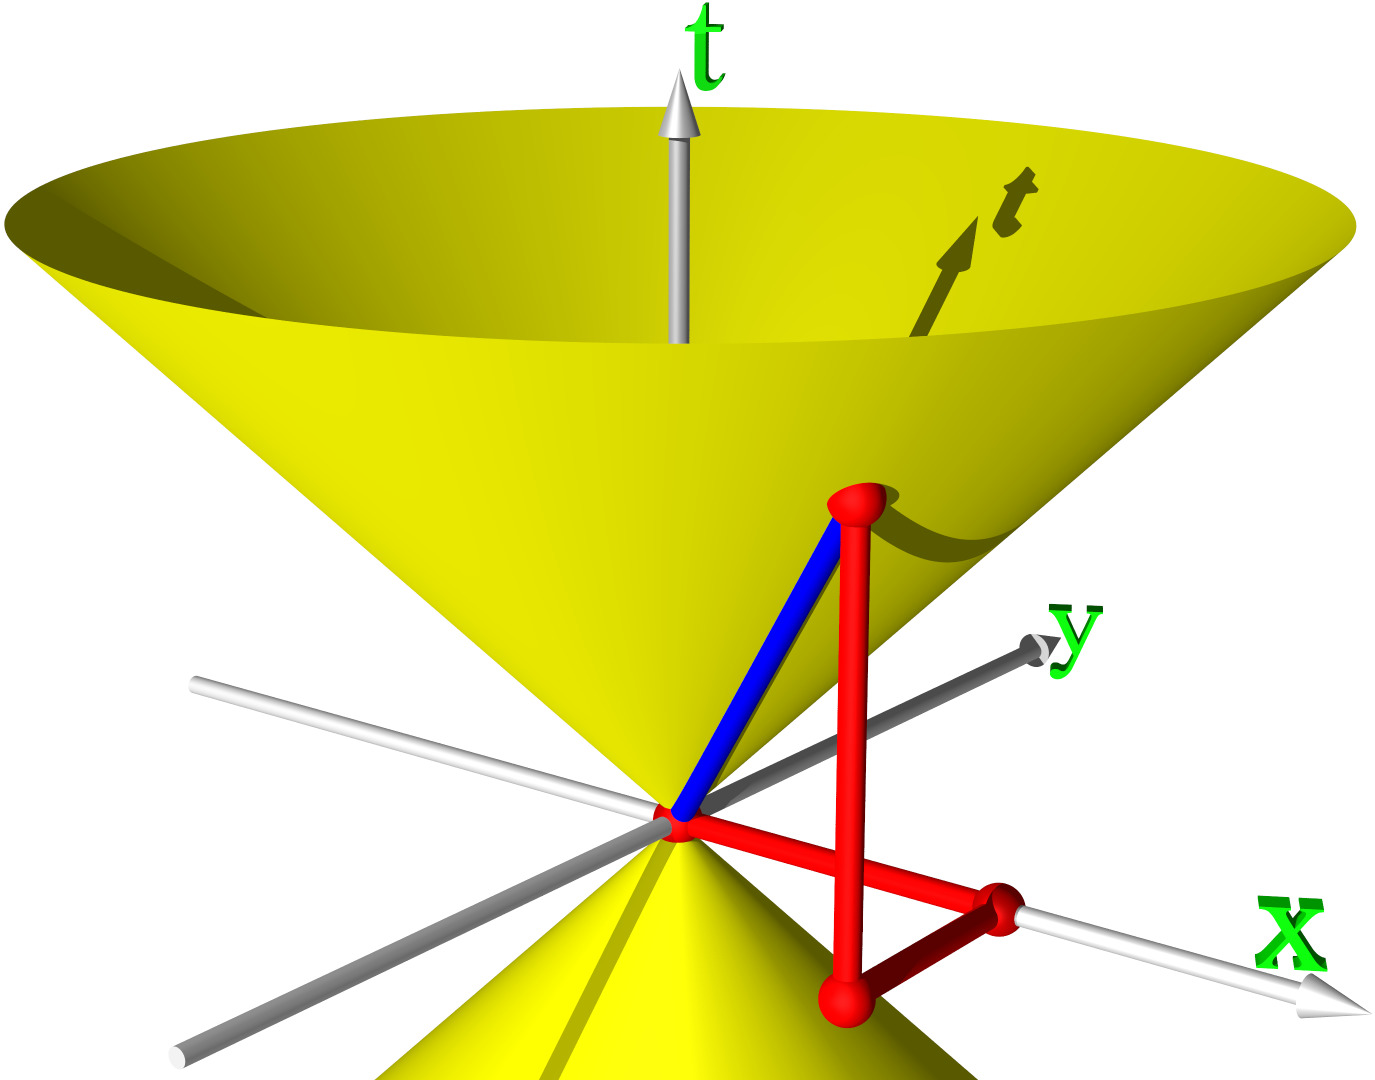
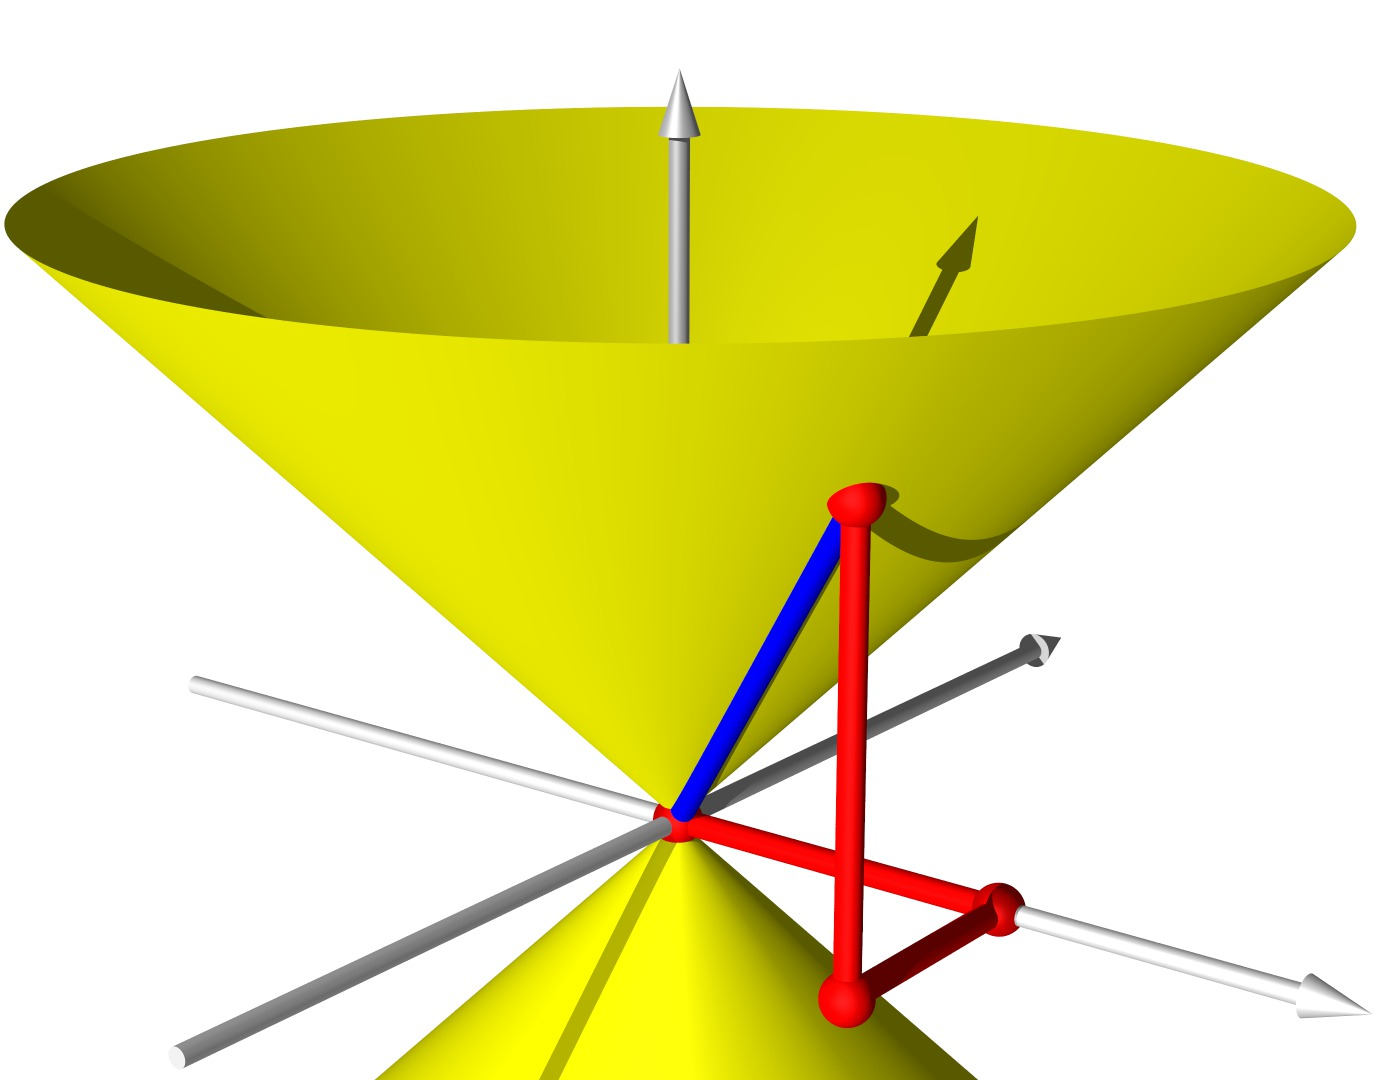
tikz labels in graphs

diff --git a/skript/adaptiv/main.tex b/skript/adaptiv/main.tex
@@ -31,7 +31,9 @@ Effekte der Atmosphäre korrigiert werden können. Ein Beispiel dazu ist
 die Abbildung \ref{fig:jupiter}, sie zeigt eine Aufnahme des Jupiters mit
 dem Very Large Telescope (VLT) des European Southern Observatory (ESO).
 \index{Very Large Telescope}%
+\index{VLT}%
 \index{European Southern Observatory}%
+\index{ESO}%
 \begin{figure}
   \centering
   \includegraphics[width=0.6\textwidth]{adaptiv/images/Jupiter_adaptiv}
@@ -145,22 +147,22 @@ Welchen Weg nimmt aber Licht, wenn es wie in Abbildung \ref{fig:weg} von $A$ nac
 \end{equation}
 Um $t$ zu bestimmen, werden nun die Strecken $\overline{AP}$ und $\overline{PB}$ benötigt, die Punkte haben die folgenden Koordinaten $A = (0,a)$, $P=(p_{x},p_{y})$ und $B=(b,0)$. Die Gleichung \eqref{tbest} erklärt, wie aus Abbildung \ref{fig:weg} die jeweiligen Strecken bestimmt werden können. In einem weiteren Schritt wird die Gleichung \eqref{tbest} partiell nach $p_{x}$ abgeleitet und die Ableitung gleich Null gesetzt.
 
-\begin{equation}\label{tbest}
-t=\dfrac{s}{v}=\dfrac{\overline{AP}}{v_{1}}+\dfrac{\overline{PB}}{v_{2}}= 
+\begin{align}
+t&=\dfrac{s}{v}=\dfrac{\overline{AP}}{v_{1}}+\dfrac{\overline{PB}}{v_{2}}= 
 \dfrac{\sqrt{(a-p_{y})^{2}+p_{x}^{2}}}{v_{1}}+ 
 \dfrac{\sqrt{(b-p_{x})^{2}+p_{y}^{2}}}{v_{2}}
-\end{equation}
-
-\begin{equation}\label{partdiff}
-\dfrac{\partial t}{\partial p_{x}}=
+\label{tbest}
+\\
+\dfrac{\partial t}{\partial p_{x}}&=
 \dfrac{1}{v_{1}}\cdot \dfrac{1}{2 \sqrt{(a-p_{y})^{2}+p_{x}^{2}}}\cdot 2p_{x} +
 \dfrac{1}{v_{2}}\cdot \dfrac{-1}{2 \sqrt{(b-p_{x})^{2}+p_{y}^{2}}}\cdot 2(b-p_{x})= 0
-\end{equation}
-
-\begin{equation}\label{glp}
+\label{partdiff}
+\\
+0&=
 \dfrac{n_{1}\cdot 2p_{x} }{\sqrt{(a-p_{y})^{2}+p_{x}^{2}}}+
-\dfrac{-n_{2}\cdot 2(b-p_{x})}{\sqrt{(b-p_{x})^{2}+p_{y}^{2}}}= 0.
-\end{equation}
+\dfrac{-n_{2}\cdot 2(b-p_{x})}{\sqrt{(b-p_{x})^{2}+p_{y}^{2}}}.
+\label{glp}
+\end{align}
 
 Die Geschwindigkeit $ v_{1}$ ist gleich $\frac{c}{n_{1}} $ und $ v_{2}$
 ist gleich $\frac{c}{n_{2}}$, dabei ist $v_{i}$ die Lichtgeschwindigkeit
@@ -232,31 +234,36 @@ die Krümmung der kugelförmigen Welle berechnet.
 \index{Wellenfront}
 
 \subsection{Krümmung der Wellenfront}
-Die Wellenfront wird durch die Funktion \eqref{kugelfunktion} beschrieben. Davon soll nun die Krümmung berechnet werden, um den Fehler durch die Näherung bestimmen zu können. Korrekterweise müsste vor der Wurzel noch $\pm$ stehen, da sonst nur die obere Hälfte der Kugel betrachtet wird. Wir sind aber nur an der Krümmung der Kugel interessiert, die auf der ganzen Kugel gleich ist, weswegen  $\pm$ hier weggelassen wird.
+Die Wellenfront wird durch die Funktion \eqref{kugelfunktion}
+beschrieben. Davon soll nun die Krümmung berechnet werden, um den
+Fehler durch die Näherung bestimmen zu können. Korrekterweise müsste
+vor der Wurzel noch $\pm$ stehen, da sonst nur die obere Hälfte der
+Kugel betrachtet wird. Wir sind aber nur an der Krümmung der Kugel
+interessiert, die auf der ganzen Kugel gleich ist, weswegen  $\pm$
+hier weggelassen wird.
 \begin{equation}\label{kugelfunktion}
 z=f(x,y)=\sqrt{r^{2}-x^{2}-y^{2})}
 \end{equation}
-Um die gausssche Krümmung zu berechnen, werden die ersten und zweiten partiellen Ableitungen und die Ableitung $ \frac{df}{dxdy}$ benötigt:
+Um die gausssche Krümmung zu berechnen, werden die ersten und zweiten
+partiellen Ableitungen und die Ableitung $ \frac{\partial^2 f}{\partial
+x \partial y}$ benötigt:
 
-\begin{equation}\label{Ableitungen x}
-f_{x}=\dfrac{\partial f(x,y)}{\partial x}= \dfrac{-x}{\sqrt{r^{2}-x^{2}-y^{2}}}
-\end{equation}
-
-\begin{equation}\label{Ableitungen xx}
-f_{xx}=\dfrac{\partial f(x,y)}{\partial x^{2}}= \dfrac{- x^2}{(r^2 - x^2 - y^2)^{\frac{2}{3}}}+\dfrac{ - 1}{\sqrt{r^2 - x^2 - y^2}}
-\end{equation}
-
-\begin{equation}\label{Ableitungen y}
-f_{y} =\dfrac{\partial f(x,y)}{\partial x}= \dfrac{-y}{\sqrt{r^{2}-x^{2}-y^{2}}}
-\end{equation}
-
-\begin{equation}\label{Ableitungen yy}
-f_{yy}=\dfrac{\partial f(x,y)}{\partial y^{2}}= \dfrac{- x^2}{(r^2 - x^2 - y^2)^{\frac{2}{3}}}+\dfrac{ - 1}{\sqrt{r^2 - x^2 - y^2}}
-\end{equation}
-
-\begin{equation}\label{Ableitungen xy}
-f_{xy}=\dfrac{\partial f(x,y)}{\partial x \partial y}=  \dfrac{-xy}{\sqrt{r^{2}-x^{2}-y^{2}}}.
-\end{equation}
+\begin{align}
+f_{x}&=\dfrac{\partial f(x,y)}{\partial x}= \dfrac{-x}{\sqrt{r^{2}-x^{2}-y^{2}}}
+\label{Ableitungen x}
+\\
+f_{xx}&=\dfrac{\partial f(x,y)}{\partial x^{2}}= \dfrac{- x^2}{(r^2 - x^2 - y^2)^{\frac{2}{3}}}+\dfrac{ - 1}{\sqrt{r^2 - x^2 - y^2}}
+\label{Ableitungen xx}
+\\
+f_{y}&=\dfrac{\partial f(x,y)}{\partial x}= \dfrac{-y}{\sqrt{r^{2}-x^{2}-y^{2}}}
+\label{Ableitungen y}
+\\
+f_{yy}&=\dfrac{\partial f(x,y)}{\partial y^{2}}= \dfrac{- x^2}{(r^2 - x^2 - y^2)^{\frac{2}{3}}}+\dfrac{ - 1}{\sqrt{r^2 - x^2 - y^2}}
+\label{Ableitungen yy}
+\\
+f_{xy}&=\dfrac{\partial f(x,y)}{\partial x \partial y}=  \dfrac{-xy}{\sqrt{r^{2}-x^{2}-y^{2}}}.
+\label{Ableitungen xy}
+\end{align}
 Die Herleitung der Krümmung und die entsprechenden Beweise dazu sind in Kapitel 4 zu finden. Die gausssche Krümmung lässt sich berechnen, indem man die Gleichungen \eqref{Ableitungen x} bis \eqref{Ableitungen xy} in die Gleichung \eqref{gausskrümmung} einsetzt:  
 
 \begin{equation}\label{gausskrümmung}

diff --git a/skript/chapters/speziell.tex b/skript/chapters/speziell.tex
@@ -200,6 +200,7 @@ Approximation ist.
 
 Einstein hat diesen Schritt 1905 in seiner Arbeit \cite{skript:einstein}
 vollzogen, seine Theorie wird heute die speziellen Relativitätstheorie genannt.
+\index{Relativitätstheorie!spezielle}%
 Ziel dieses Kapitels ist zu zeigen, welche Auswirkungen seine
 Erkenntnis auf die Mechanik aber auch auf unser Weltbild hat.
 \index{Einstein, Albert}%
@@ -248,7 +249,13 @@ Ausdruck~\eqref{skript:kruemmung:raumzeitabstand} negativ ist.
 
 \begin{figure}
 \centering
-\includegraphics[width=\hsize]{chapters/3d/lichtkegel.jpg}
+\begin{tikzpicture}
+\node at (0,0)
+{\includegraphics[width=\hsize]{chapters/3d/lichtkegel.jpg}};
+\node at (0.2,4.8) {$t$};
+\node at (4.0,-0.9) {$y$};
+\node at (6.7,-4.3) {$x$};
+\end{tikzpicture}
 \caption{Lichtkegel ausgehend vom Nullpunkt zur Zeit $t=0$.
 Alle Punkte innerhalb des Kegels mit $t>0$ liegen in der Zukunft des
 Beobachters im Nullpunkt, solche mit $t<0$ in seiner Vergangenheit.

diff --git a/skript/chapters/robertson.tex b/skript/chapters/robertson.tex
@@ -634,7 +634,7 @@ Insgesamt entsteht so das Gleichungssystem
 \end{align*}
 Durch Gleichsetzen bekommen wir eine Beziehung zwischen Druck und
 Dichte.
-Diese zweite Gleichung würde also eine Temperatur des Universums 
+Diese zweite Gleichung würde also die Temperatur des Universums 
 bereits eindeutig festlegen.
 %\begin{align*}
 %\frac{8\pi K\varrho}{c^2}
@@ -665,7 +665,7 @@ katalogisiert worden.
 Vor allem Wilhelm Herschel hat in seinem grossen 
 \index{Wilhelm Herschel}%
 {\em Catalogue of Nebulae and Clusters of Stars} über 2000 Objekte
-\index{Catalogue of Nebulae and Clusterse of Stars}%
+\index{Catalogue of Nebulae and Clusters of Stars}%
 erfasst.
 Diese wurden jedoch meist als Objekte in unserer eigenen Galaxie angesehen.
 Auch wurde das Universum im Wesentlichen als unveränderlich angesehen.

diff --git a/skript/chapters/hauptkruemmungen.tex b/skript/chapters/hauptkruemmungen.tex
@@ -66,7 +66,13 @@ Die Matrix $H$ ist offenbar symmetrisch.
 
 \begin{figure}
 \centering
-\includegraphics[width=\hsize]{chapters/3d/hauptkruemmungen.jpg}
+\begin{tikzpicture}
+\node at (0,0)
+{\includegraphics[width=\hsize]{chapters/3d/hauptkruemmungen.jpg}};
+\node at (0.4,0.7) {$P$};
+\node at (0.9,3.85) {$\displaystyle \varrho_1=\frac1{\kappa_1}$};
+\node at (0.9,-3.1) {$\displaystyle \varrho_2=\frac1{\kappa_2}$};
+\end{tikzpicture}
 \caption{Die Hauptkrümmungen einer Fläche sind die maximale und minimale
 Schnittkrümmung in einem Punkte.
 Die zugehörigen Krümmungsrichtungen heissen die Hauptkrümmungsrichtungen.

diff --git a/skript/chapters/schnittkruemmung.tex b/skript/chapters/schnittkruemmung.tex
@@ -152,7 +152,13 @@ nicht alle verschwinden.
 \label{skript:kurven:schnittkurven}}
 \begin{figure}
 \centering
-\includegraphics[width=\hsize]{chapters/3d/schnittkruemmung.jpg}
+\begin{tikzpicture}
+\node at (0,0)
+{\includegraphics[width=\hsize]{chapters/3d/schnittkruemmung.jpg}};
+\node at (0.5,-1.2) {$P$};
+\node at (0.7,1.3) {$n(P)$};
+\node at (0.5,2.8) {$Q$};
+\end{tikzpicture}
 \caption{Die Schnittkrümmung einer Fläche $g(u,v)$ im Punkt $P$ ist
 die Krümmung der Schnittkurve (rot) einer Ebene durch $P$, die den
 Normalenvektor $n(P)$ (grün) enthält.

diff --git a/skript/cmb/einleitung.tex b/skript/cmb/einleitung.tex
@@ -5,7 +5,7 @@ Lebensraum begrenzt auf das Universum.
 Weiss ein Fisch, wie das Meer von unserem Blickpunkt aus aussieht?
 Wahrscheinlich nicht, wieso sollte ihn das auch interessieren?
 Da wir aber keine Fische sind, ist es nur natürlich sich zu fragen, wie das 
-Universum von Aussen betrachtet, aussieht.
+Universum von Aussen betrachtet aussieht.
 Um die Frage nach der Form des Universums beantworten zu können, werden wir uns 
 im folgenden Kapitel mit dem kosmischen Mikrowellenhintergrund befassen.
 

diff --git a/skript/chapters/laengenmessung.tex b/skript/chapters/laengenmessung.tex
@@ -149,7 +149,8 @@ In der Tat kommt es praktisch nicht vor, dass ein oberer und unterer
 Index übereinstimmt {\em ohne} dass darüber summiert werden muss.
 Wir werden daher in Zukunft in dieser Situation das Summenzeichen weglassen.
 Dies ist die {\em Einsteinsche Summenkonvention}.
-\index{Summenkonvention!Einsteinsche}%
+\index{Summenkonvention, Einsteinsche}%
+\index{Einsteinsche Summenkonvention}%
 Mit der Summenkonvention lässt sich~\eqref{skript::summenformel} kompakter
 als
 \begin{equation}

diff --git a/skript/chapters/kurven.tex b/skript/chapters/kurven.tex
@@ -696,7 +696,12 @@ eingebettet vorstellt.
 \begin{beispiel}
 \begin{figure}
 \centering
-\includegraphics[width=\hsize]{chapters/3d/kurve.jpg}
+\begin{tikzpicture}[]
+\node at (0,0) {\includegraphics[width=\hsize]{chapters/3d/kurve.jpg}};
+\node at (1.1,4.5) {$z$};
+\node at (-0.9,1.3) {$x$};
+\node at (-3.4,-0.1) {$y$};
+\end{tikzpicture}
 \caption{Kurven $t\mapsto(t,t^2,0)$ (rot) und $t\mapsto(t,t^2,t^3)$ (gelb).
 \label{skript:kruemmung:fig:kurvekr}}
 \end{figure}

diff --git a/skript/chapters/gravitation.tex b/skript/chapters/gravitation.tex
@@ -449,6 +449,8 @@ senkrecht auf der Oberfläche des Gebietes steht.
 \end{satz}
 
 \subsubsection{Feldgleichungen der Gravitation}
+\index{Relativitätstheorie!allgemeine}%
+\index{allgemeine Relativitätstheorie}%
 Der Nutzen des Satzes~\ref{skript:gravitation:gausssatz}
 ist, dass man den Fluss des Schwerkraftfeldes
 $\vec F$ einer Punktladung durch eine mit der Masse konzentrischen

diff --git a/skript/cmb/missions.tex b/skript/cmb/missions.tex
@@ -58,6 +58,7 @@ für ihre Arbeit an der \ac{COBE} Mission 2006 den Nobelpreis für Physik.
 \index{WMAP}%
 \index{Wilkinson Microwave Anisotropy Probe}%
 \index{European Space Agency}%
+\index{ESA}%
 \index{Planck-Mission}%
 \ac{WMAP} (\ac{NASA}) und Planck (\ac{ESA}) folgten auf 
 \ac{COBE}.
